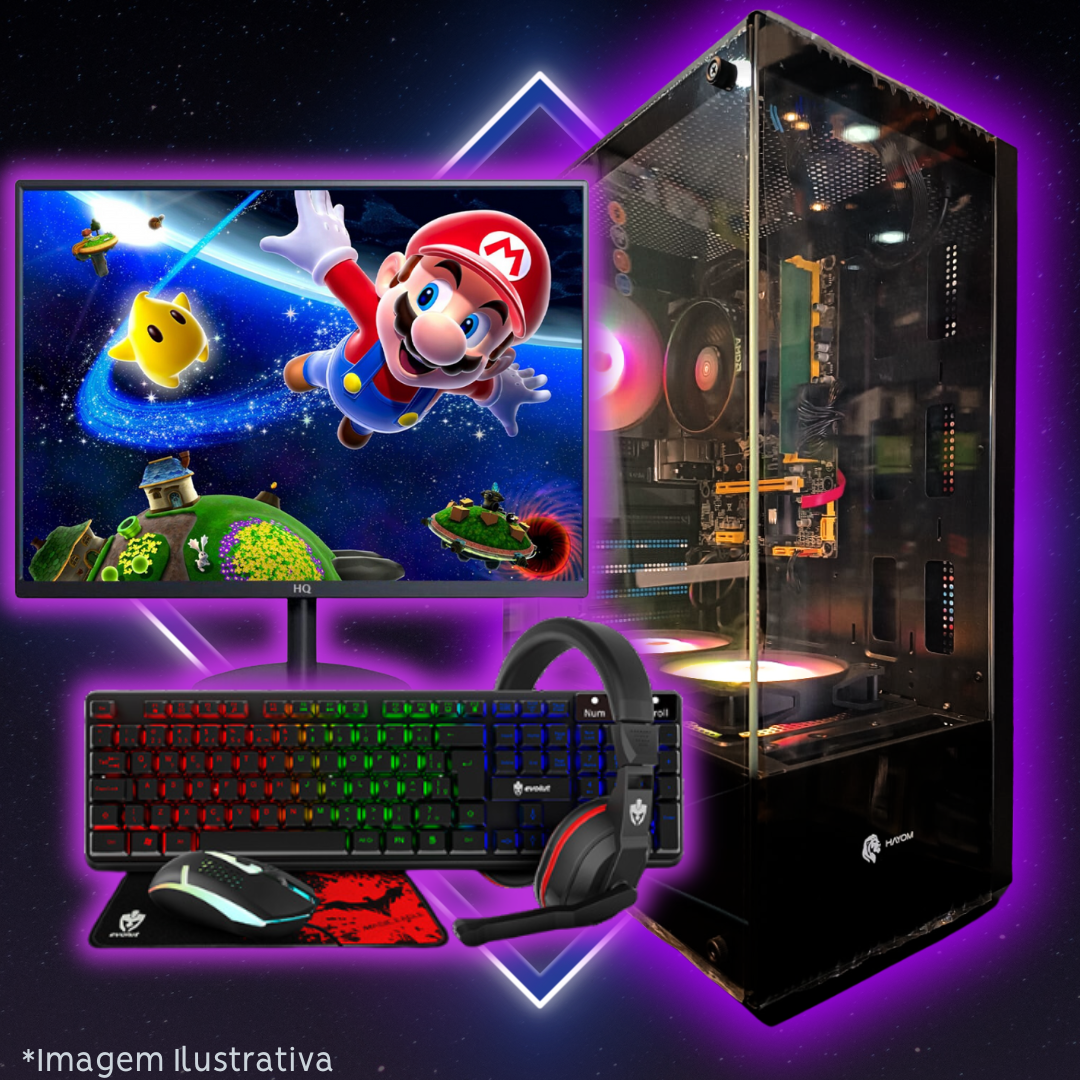
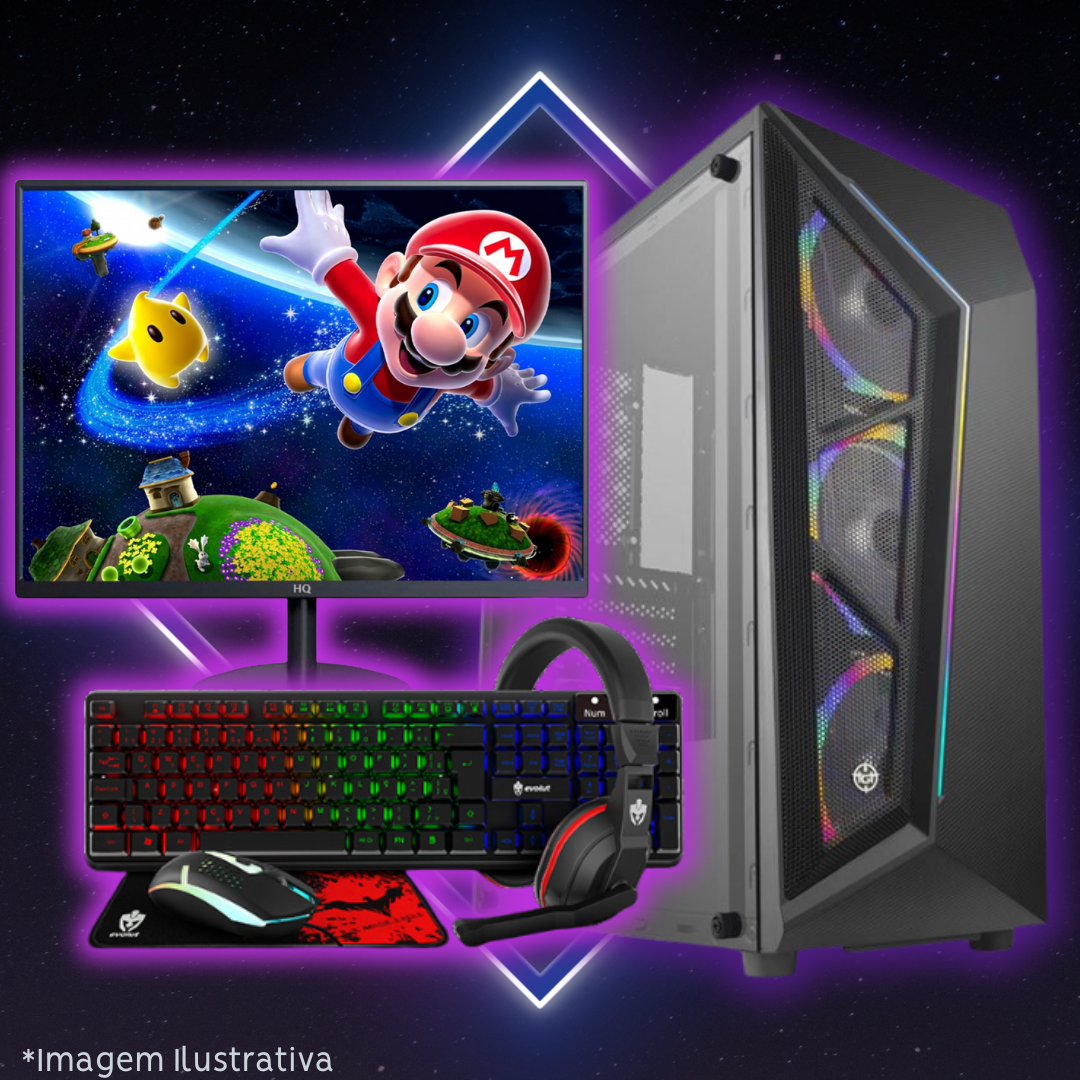
Updating Catalog

diff --git a/src/routes/setup/+page.svelte b/src/routes/setup/+page.svelte
@@ -30,12 +30,12 @@
     {
       title: "Nº6 - 🖱SETUP GAMER RYZEN 5 4500",
       image: "N6-SETUP.png",
-      text: "💥 LEAGUE OF LEGENDS\n🌎 MINECRAFT\n🟥 ROBLOX\n🔫 VALORANT\n🔫 CSGO 2\n🔫 WARZONE\n🦙 FORTNITE\n\n*Placa Mãe:* A520\n*Processador:* RYZEN 5 4500\n*Memória RAM:* 2x8GB(16GB) DDR4\n*Placa de Vídeo:* GTX 1650 4GB\n*Armazenamento:* SSD 480GB\n*Gabinete:* GAMER C/ 3 FANS RGB RGB FRONTAIS\n*Fonte:* 500W\n+ Monitor de 17' POL. *NOVO*\n+ Kit Gamer(Teclado, Mouse, Mousepad e Headset)\n\nPOR APENAS *R$ 4.160,00* em até 10x sem juros!"
+      text: "💥 LEAGUE OF LEGENDS\n🌎 MINECRAFT\n🟥 ROBLOX\n🔫 VALORANT\n🔫 CSGO 2\n🔫 WARZONE\n🦙 FORTNITE\n\n*Placa Mãe:* A520\n*Processador:* RYZEN 5 4500\n*Memória RAM:* 2x8GB(16GB) DDR4\n*Placa de Vídeo:* GTX 1650 4GB\n*Armazenamento:* SSD 480GB\n*Gabinete:* GAMER C/ 3 FANS RGB RGB FRONTAIS\n*Fonte:* 500W\n+ Monitor de 17' POL. *NOVO*\n+ Kit Gamer(Teclado, Mouse, Mousepad e Headset)\n\nPOR APENAS *R$ 4.260,00* em até 10x sem juros!"
     },
     {
       title: "Nº7 - 🖱SETUP GAMER RYZEN 5 5600",
       image: "N7-SETUP.png",
-      text: "💥 LEAGUE OF LEGENDS\n🌎 MINECRAFT\n🟥 ROBLOX\n🔫 VALORANT\n🔫 WARZONE\n🔫 CSGO 2\n🦙 FORTNITE\n\n*Processador:* RYZEN 5 5600\n*Placa Mãe:* A520\n*Memória RAM:* 16GB DDR4\n*Placa de Vídeo:* RTX 3050 6GB\n*Armazenamento:* SSD 480GB\n*Gabinete:* GAMER C/ 3 FANS RGB FRONTAIS\n*Fonte:* 500W\n+ Monitor de 19' Pol. 75Htz\n+ + Kit Gamer(Teclado, Mouse, Mousepad e Headset)\n\nPOR APENAS *R$ 5.790,00* em até 10x sem juros!",
+      text: "💥 LEAGUE OF LEGENDS\n🌎 MINECRAFT\n🟥 ROBLOX\n🔫 VALORANT\n🔫 WARZONE\n🔫 CSGO 2\n🦙 FORTNITE\n\n*Processador:* RYZEN 5 5600\n*Placa Mãe:* B450MX\n*Memória RAM:* 1x16GB DDR4 Fury Beast RGB\n*Placa de Vídeo:* RTX 3060 12GB\n*Armazenamento:* SSD 480GB\n*Gabinete:* GAMER C/ 3 FANS RGB FRONTAIS\n*Fonte:* 550W 80PLUS\n+ Monitor de 19' Pol. 75Htz\n+ + Kit Gamer(Teclado, Mouse, Mousepad e Headset)\n\nPOR APENAS *R$ 7.390,00* em até 10x sem juros!",
     },
     {
       title: "Nº8 - 🖱SETUP GAMER RYZEN 5 4500",
